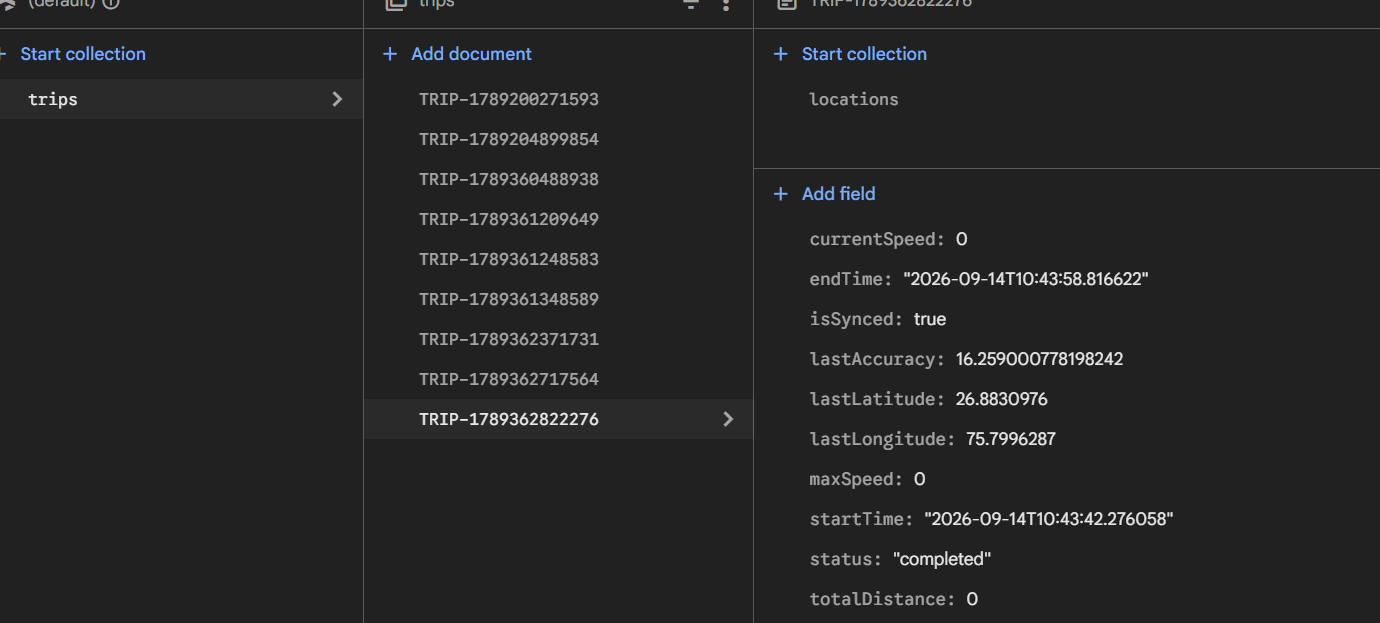
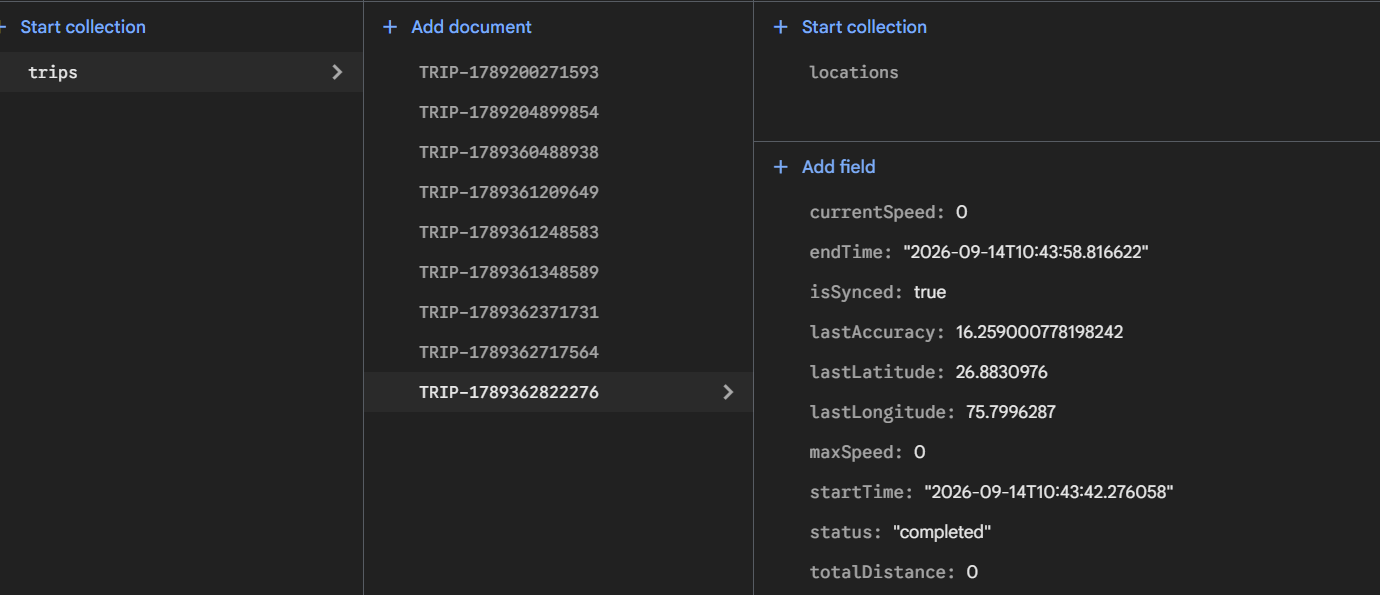
docs: add live Firestore console screenshot and update README visual documentation

diff --git a/README.md b/README.md
@@ -38,27 +38,23 @@ The objective of this assignment is to build an accurate, robust rider tracking 
 
 ## Visuals & Firebase Database Screenshots
 
-The `assets/screenshots/` directory contains visual proof of the application interface, the Firebase Cloud Firestore database schema, and live stored trips:
+### 1. Live Firebase Cloud Firestore Database
+Below is the live Firestore console screenshot from our project showing multiple trips created and synced (`TRIP-1789200271593`, `TRIP-1789204899854`, `TRIP-1789360488938`, `TRIP-1789361209649`, `TRIP-1789361248583`, `TRIP-1789361348589`, `TRIP-1789362371731`, `TRIP-1789362717564`, `TRIP-1789362822276`), showing the trip document attributes and the nested `locations` subcollection:
 
-### 1. App Interface & Rider Dashboard
-The clean, high-contrast monochrome UI designed for outdoor visibility:
-![App Dashboard](assets/screenshots/app_dashboard.png)
+![Firebase Cloud Firestore Live Database Data](assets/screenshots/firebase_db_data_image.png)
 
-### 2. Firebase Cloud Firestore — `trips` Collection
-Showing multiple completed and in-progress trips stored directly in Firestore:
-![Firestore Trips Collection](assets/screenshots/firebase_trips_collection.png)
-
-### 3. Trip Document Details
-Showing trip metadata, distance, duration, current speed, max speed, and sync status:
-![Firestore Trip Document Details](assets/screenshots/firebase_trip_details.png)
-
-### 4. Location Telemetry Subcollection (`/trips/{tripId}/locations`)
-Showing real-time location updates matching the technical assignment payload format:
-![Firestore Locations Subcollection](assets/screenshots/firebase_locations_subcollection.png)
-
-### 5. Firestore Security Rules Configuration
-Configured to allow read and write access for mobile tracking:
-![Firestore Security Rules](assets/screenshots/firebase_rules.png)
+### 2. Firestore Document Fields & Telemetry Structure
+As shown in the console screenshot above, each trip document contains:
+- `currentSpeed`: Current rider speed (`0` km/h at stop).
+- `endTime`: ISO-8601 formatted trip completion time (`"2026-09-14T10:43:58.816622"`).
+- `isSynced`: Cloud synchronization status (`true`).
+- `lastAccuracy`: Real-time GPS accuracy in meters (`16.25m`).
+- `lastLatitude` & `lastLongitude`: Final GPS coordinate fix (`26.8830976, 75.7996287`).
+- `maxSpeed`: Maximum recorded valid speed for the trip.
+- `startTime`: ISO-8601 formatted trip start time (`"2026-09-14T10:43:42.276058"`).
+- `status`: Lifecycle state (`"completed"` or `"active"`).
+- `totalDistance`: Accumulated validated distance in meters.
+- `locations`: Subcollection containing every individual accepted GPS fix with timestamp, speed, and accuracy matching the assignment payload.
 
 ---
 
